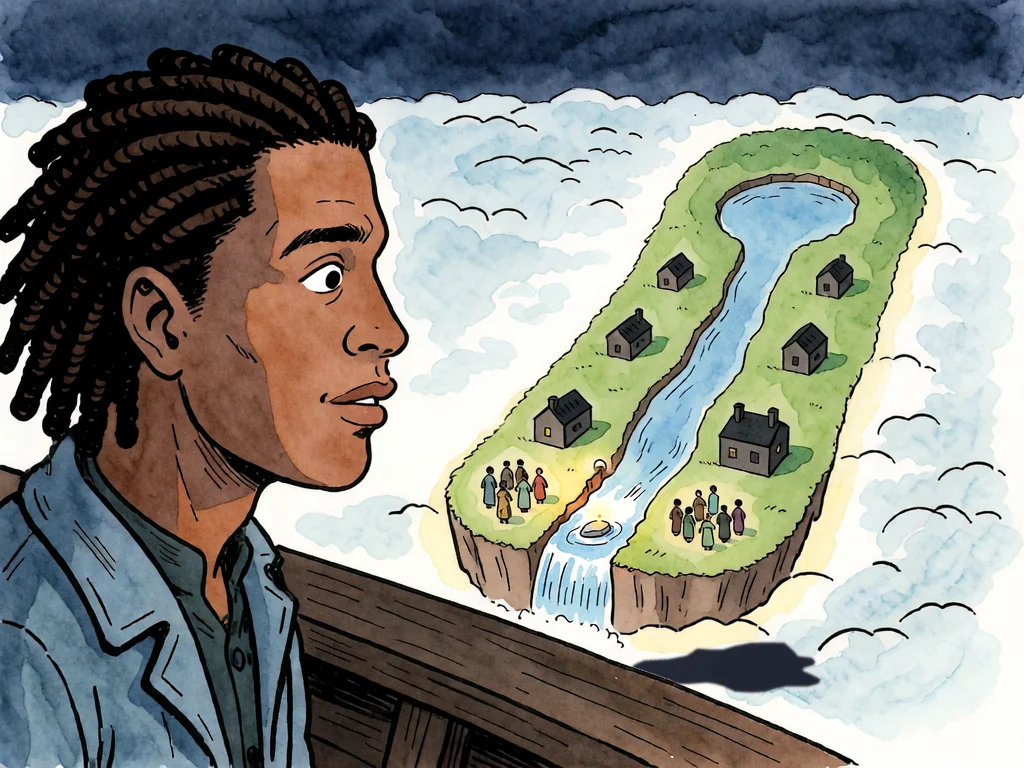
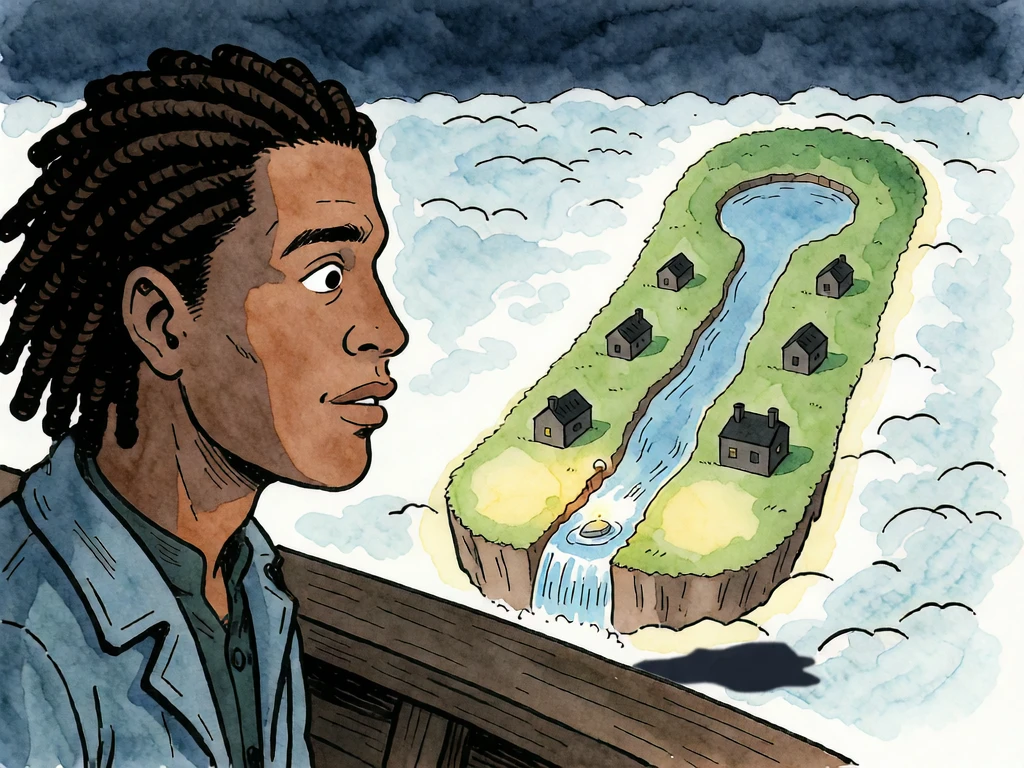
Run 10 picture 1 redraw (locked); dream 4 and 5 reopened in credits; credits row for the run 9 and 10 stills
Claude-Session: https://claude.ai/code/session_01JTmPYBGE5RJi7qTbK5Qior

diff --git a/CREDITS.md b/CREDITS.md
@@ -15,6 +15,7 @@ subscription-only billing so no Spark was spent. Sources are in the project file
 | faces/&lt;who&gt;-&lt;mood&gt;.webp (story portraits: Hesta 3 moods, Lumi 6, Rook 4, Nell 6, Sefa 7, Kes 5; Kes's are drafts from the cast art thread, `sogni/lanternfall/production/kes/game/`, 2026-11-24) | Mood faces (Lumi's calling, grudging and delighted redrawn closed-mouth on 2026-11-23) from the cast art thread (project files `sogni/lanternfall/production/<who>/face-*.png`, 2026-11-23), resized to 160 px WebP |
 | stills/r8-{1,2,7,10,11a,11b}.webp (run 8's reaction stills: Tilda steady, Tilda and Rook at the far well, Rook asking for Granny (redrawn the same day, more concerned, at Ladi's word), the count book, Tilda asking, Rook with no answer) | Drafts drawn by the gameplay thread with krea2_identity_edit_v1_2 on Sogni, 2026-11-24, on Ladi's plan, 0 Spark (project files `gameplay/stills/run8/`), 1024 by 768 as delivered. | The stills panel over the Sieve (`src/engine/stills.ts`) |
 | stills/r8-5.webp, stills/r8-6.webp (run 8's reaction stills at the tug: Tilda lost with Rook uneasy behind her; Tilda watching, Rook looking down) | Drawn by the cutscene thread on Sogni, 2026-11-24, on Ladi's plan; Ladi approved them at 10:44 AM ("Faces look good"). Every step with krea2_identity_edit_v1_2 on the subscription, 0 Spark, as that thread confirmed from its render logs (Tilda alone, Rook added behind her, the face changes on head crops), from the project's own persona sheets lf-tilda and lf-rook-high-grounds; the face transplants, Tilda's chalk smudge and Rook's enlarging are its own script and hand work, no model (sources `sogni/lanternfall/production/story/run8-stills/s5-closer.png` and `s6-closer.png`; delivered in project files `gameplay/stills/run8/`), 1024 by 768 as delivered | The stills panel over the Sieve: 5 as the tug takes hold, 6 cross-fading over it when the tug ends |
+| stills/r9-{0,1,2,3}.webp, stills/r10-{0,1,2}.webp (run 9's four stills; run 10's two panels and its last picture, Lumi's lantern on the stone) | The cutscene and gameplay threads' stills on Sogni, 2026-11-25, on Ladi's plan: run 9's four are that thread's drafts; run 10's panels and last picture were approved by Ladi. Picture r10-1 replaced on 2026-11-26 by `gameplay/stills/run10/r10-1-v2.webp` (from `run10/r10-1-v2-a.png`, krea2_identity_edit_v1_2, 0 Spark), locked by Ladi. ❓ The model's licence terms not read, the same caveat as the other Sogni stills. 1024x768 WebP | Runs 9 and 10 (`src/engine/stills.ts`) |
 | stills/r6-land-{1,2,3}.webp (run 6's landing pictures: the crowd looking up with Lumi in front, the comet over the island, Hesta landing in the glass) | Drafts drawn by the gameplay thread on Sogni, 2026-11-24, on Ladi's plan, 0 Spark, all with krea2_identity_edit_v1_2; picture 2 redrawn the same day from the game's own island; picture 1 redrawn on 2026-11-25 by the cutscene thread with the cast from their personas (`r6-land-1-cast`, not seen by Ladi yet); picture 3 redrawn on 2026-11-25 by the cutscene thread on Ladi's notes, Hesta alone on the Kindling ground drawn from the game's own map, close, with a wide crater, in her Hesta Gear look (`r6-land-3-gear`, 0 Spark, not seen by Ladi yet) (project files `gameplay/stills/run6/`), 1024 by 768 as delivered | The held pictures of the landing between runs 6 and 7; picture 2 shows only with `?stillsonly`, since the comet now falls on the map |
 | stills/alarm/**/*.webp (the alarm before run 6 as moving layers: the kitchen with its lamp and three cups apart; the falls (redrawn 2026-11-25 by the cutscene thread from the game's own map with Maudie, Orrin and Moth from their personas, `alarm2-falls-map`, on Ladi's note; replaced on 2026-11-26 by `gameplay/stills/run6/r6-alarm-2-v2.webp`, from `alarm2-falls-nolamp-c.png` (krea2_identity_edit_v1_2, 0 Spark, with a hand clean-up of the sand), nobody and no lamp on the sand, locked by Ladi); the Kindling ground close with its fire strong, low, in embers and out, drawn from the game's own story/kindling-ring.webp (replaced on 2026-11-26 by the cutscene thread's `gameplay/stills/run6/alarm3-v2/` frames, both archways gone and the fire visibly dying, locked by Ladi); and in shot4/ the island going down: sky, five layers of cloud, the island cut out with its heart bright and dim, a strip of waterfall, four rocks), stills/r6-alarm-5.webp (Lumi at the door, worried; replaced on 2026-11-26 by the cutscene thread's `gameplay/stills/run6/r6-alarm-5-v2.webp`, her staff longer, locked by Ladi) and stills/r7-end-1.webp (the island clear of the cloud; redrawn 2026-11-25 by the cutscene thread over a capture of the game's own island, `r7-end-1-map`, on Ladi's note, 0 Spark as that thread reports; no longer shown: on 2026-11-26 Ladi asked for the alarm's island shot the other way instead, so the end of run 7 is now shot4's layers played rising out of the cloud, with a small fire drawn in the page in the Kindling brazier) | Drafts drawn by the gameplay thread on Sogni, 2026-11-24, on Ladi's plan, 0 Spark, with krea2_identity_edit_v1_2, the island drawn from the game's own (project files `gameplay/stills/run6/` and `gameplay/stills/run6/alarm-layers/`); the layers turned from PNG to WebP here, same sizes | The alarm's five shots before run 6 (`?noalarm` leaves them out) and the picture at the end of run 7. The alarm's sparks are drawn in the page, and its sounds (bell, timbers, falls, far-off voices, the low roll, rock breaking) are made in the page, no files |
 | stills/alarm/shot4/{island-dim,island-bright,waterfall-strip,debris-1..4}.webp (the alarm's last shot, redrawn so the houses, the landing with its skiff and the lake sit where they are on the map, with the falls down the near face) | Redrawn by the gameplay thread on Sogni, 2026-11-24, straight over a capture of the game's own home island made here (project files `build/home-island-horseshoe/whole/2-day-side.png`); Ladi approved the shot at 11:30 AM ("Shot 4 Descent looks good", draft 5). Model and cost as that thread's other alarm layers (the row above); turned from PNG to WebP here, same sizes; on 2026-11-25 the cutscene thread painted the five small figures out of island-dim and island-bright at Ladi's request (the shot is too wide for people), same size and alpha (`production/story/run6-stills/layers4/nopeople/`) | The island going down, the last shot of the alarm before run 6 |
@@ -32,7 +33,7 @@ subscription-only billing so no Spark was spent. Sources are in the project file
 | story/kindling-underside.webp, story/kindling-heart-small.webp, story/kindling-heart-big.webp, story/kindling-hearts.webp, story/kindling-eye-glint.webp (run 1's ending: the home island from below in its horseshoe shape, both hearts down to embers; the two hearts lit as separate layers; the sky from below with home in its new shape, approved by Ladi at 11:46 AM, "Islands from below lgtm"; and home's one light among them, the 2026-11-23 glint trimmed tighter) | Painted by the cutscene thread on Sogni, 2026-11-24 (`sogni/lanternfall/production/story/v4/`), with krea2_identity_edit_v1_2 on the subscription, 0 Spark, plus its own code, as that thread reports; it says Ladi approved the underside that day and chose two hearts. ❓ That thread has not read the model's licence terms, the same caveat as the run 8 stills. Converted to WebP, same size (1536 square) | Run 1's ending, over the rim and down the underside: the small heart under the Kindling ground lights first, then the big one at the tip; then the islands from below, home's light as bright as the score |
 | story/walk-kitchen.webp (Rook's kitchen, walk 2) | The cutscene art thread's picture (`production/story/part1/kitchen/kitchen-tappable-walk2-draft-3.png`, 2026-11-24), the lantern with its approved hook handle; that thread reports Ladi's "Yes" at 11:47 AM on 2026-11-24 as covering it. ❓ It has not read the model's licence terms, the same caveat as its other pictures. Converted to WebP at 1280 px |
 | story/evening-1.webp and story/evening-2.webp (the evening after Granny's game, 3-4a) | The cutscene art thread's pictures (`production/story/part1/evening/`, drawn on Sogni on the subscription as that thread reports). Picture 1, the pond at sunset, replaced on 2026-11-26 by `evening-pond-final-3.png` (Lumi's right hand back, a younger face, Sefa looking up at Rook), locked by Ladi; picture 2 from `evening-kitchen-night-final-1.png`. ❓ That thread has not read the model's licence terms, the same caveat as its other pictures. Converted to WebP at 1280 px | Part 1's evening scene, 3-4a (`src/client/part1.ts` EVENING) |
-| story/gt-*.webp (the glow test before run 6, seven wide pictures with two light layers), story/dream-*.webp (the dream before run 1, eight pictures), story/skiff-*.webp (the skiff coming in at sunset and leaving the next morning, 4-5, redrawn from the personas on Ladi's notes in `production/story/part1/skiff-home/final-3/` (the arrival; replaced on 2026-11-26 by that folder's later save of `skiff-1-arrives-sunset.png`, which fixes Kes's extra hand, approved by Ladi) and `final-2/` (leaving); the first set's three are no longer used), story/sendoff-*.webp (the beacon and the send-off, 8-9b, thirteen pictures), story/handoff-*.webp (before the stranger's ship, 9-10, eight pictures; picture 4, the ferryman calling, replaced on 2026-11-26 by story row S4, `production/story/runs9-10/s4-over-here-l.png`, approved by Ladi, cropped to 4:3 by the cutscene thread, the crop not seen by Ladi), story/offering-*.webp (the Offering, 11, 25 pictures, rebuilt from the game's own island in `production/story/offering/final-2/`; the first draft is no longer used; pictures 4 and 7 replaced on 2026-11-25 by the third set, `stills-v3/04-falls-wide-a` and `07-lumi-turns-f`, cropped to 4:3 and approved by Ladi; picture 4 replaced again on 2026-11-26 by the ink redraw `stills-v3/04-falls-final` and picture 7 by `stills-v3/07-lumi-final`, both approved by Ladi, the crops the cutscene thread's; picture 1 replaced on 2026-11-26 by `stills-v3/01-landing-final`, picture 5 by `stills-v3/05-lumi-final` and picture 3 by `stills-v3/03-tip-final-3` (Lumi at true scale on the stone and the boat, locked by Ladi), all approved by Ladi, cropped to 4:3 by the cutscene thread, the crops not seen by Ladi; picture 8 replaced on 2026-11-26 by `stills-v3/08-rim-final` (Rook on the bank, Lumi on the stone turned to him), locked by Ladi, the 1024x768 crop the cutscene thread's; picture 9 replaced on 2026-11-26 by `stills-v3/09-door-final` (Hesta by Rook's door, facing him), locked by Ladi, the 1024x768 crop the cutscene thread's; picture 11 replaced on 2026-11-26 by `stills-v3/11-side-final` (Hesta leads Rook round behind his house), locked by Ladi, the 1024x768 crop the cutscene thread's; pictures 12 to 15 replaced on 2026-11-26 by `stills-v3/12-rook-final`, `13-hesta-final`, `14-kneel-final` and `15-hesta-final`, picture 16 by `16-rook-final` and picture 17 by `17-hesta-final`, pictures 6 and 10 by the cutscene thread's `offering-06-mooring` and `offering-10-rook` stills, and pictures 18, 19, 20, 22, 23, 24 and 25 by its `offering-18-line`, `19-rim`, `20-tip`, `22-under`, `23-fall`, `24-fall` and `25-out` stills (23 and 24 relocked on 2026-11-26 from `stills-v3/23-fall-final-2` and `24-fall-final-2`, the lantern smaller and to one side, a hand composite, 0 Spark; 22 relocked the same day from `stills-v3/22-under-final-2`, a hand composite on a krea2_identity_edit_v1_2 plate, 0 Spark), and pictures 2 and 21 by `stills-v3/02-path-final` (a krea2_identity_edit_v1_2 repaint of the map view, 0 Spark, with Rook composited by hand) and `stills-v3/21-lumi-final` (Lumi on the picture-21 plate, krea2_identity_edit_v1_2, the lantern from `lant2/lit.png`, cleaned up by hand), locked by Ladi; every Offering picture is now locked, the 1024x768 crops the cutscene thread's) and story/hands-*.webp (Hesta's hands at night and the morning after, 7-8b, four pictures and a shake layer) | The cutscene art thread's final sets (`production/story/part1/glowtest/final/`, `production/story/dream/final/`, `production/story/part1/skiff-home/final/`, `production/story/part1/send-off/final/`, `production/story/handoff-9-10/final/`, `production/story/offering/final/` and `production/story/part1/hands/final/`, 2026-11-25), drawn on Sogni on the subscription as that thread reports, 0 Spark. Glow test: six pictures approved by Ladi on 23 and 24 Nov; gt-5-rook-proud is that thread's pick, not seen by Ladi. Dream: pictures 1 to 5 replaced on 2026-11-26 by `production/story/dream/final-2/` (krea2_identity_edit_v1_2 renders, 0 Spark, a hand-composited lantern in 3), locked by Ladi; 6 to 8 are that thread's picks, Ladi saw the rough storyboard only, and are being redrawn. Skiff home, send-off, hands, the pictures before the ship and the Offering: that thread's picks, not seen by Ladi. ❓ That thread has not read the model's licence terms, the same caveat as its other pictures. Converted to WebP (glow test 1920x1080, dream 1024x768) | Part 1's held-picture scenes 0, 4-5, 5-6b, 7-8b, 8-9b, 9-10 and 11 (`src/client/part1.ts` DREAM, HELD and GLOW) |
+| story/gt-*.webp (the glow test before run 6, seven wide pictures with two light layers), story/dream-*.webp (the dream before run 1, eight pictures), story/skiff-*.webp (the skiff coming in at sunset and leaving the next morning, 4-5, redrawn from the personas on Ladi's notes in `production/story/part1/skiff-home/final-3/` (the arrival; replaced on 2026-11-26 by that folder's later save of `skiff-1-arrives-sunset.png`, which fixes Kes's extra hand, approved by Ladi) and `final-2/` (leaving); the first set's three are no longer used), story/sendoff-*.webp (the beacon and the send-off, 8-9b, thirteen pictures), story/handoff-*.webp (before the stranger's ship, 9-10, eight pictures; picture 4, the ferryman calling, replaced on 2026-11-26 by story row S4, `production/story/runs9-10/s4-over-here-l.png`, approved by Ladi, cropped to 4:3 by the cutscene thread, the crop not seen by Ladi), story/offering-*.webp (the Offering, 11, 25 pictures, rebuilt from the game's own island in `production/story/offering/final-2/`; the first draft is no longer used; pictures 4 and 7 replaced on 2026-11-25 by the third set, `stills-v3/04-falls-wide-a` and `07-lumi-turns-f`, cropped to 4:3 and approved by Ladi; picture 4 replaced again on 2026-11-26 by the ink redraw `stills-v3/04-falls-final` and picture 7 by `stills-v3/07-lumi-final`, both approved by Ladi, the crops the cutscene thread's; picture 1 replaced on 2026-11-26 by `stills-v3/01-landing-final`, picture 5 by `stills-v3/05-lumi-final` and picture 3 by `stills-v3/03-tip-final-3` (Lumi at true scale on the stone and the boat, locked by Ladi), all approved by Ladi, cropped to 4:3 by the cutscene thread, the crops not seen by Ladi; picture 8 replaced on 2026-11-26 by `stills-v3/08-rim-final` (Rook on the bank, Lumi on the stone turned to him), locked by Ladi, the 1024x768 crop the cutscene thread's; picture 9 replaced on 2026-11-26 by `stills-v3/09-door-final` (Hesta by Rook's door, facing him), locked by Ladi, the 1024x768 crop the cutscene thread's; picture 11 replaced on 2026-11-26 by `stills-v3/11-side-final` (Hesta leads Rook round behind his house), locked by Ladi, the 1024x768 crop the cutscene thread's; pictures 12 to 15 replaced on 2026-11-26 by `stills-v3/12-rook-final`, `13-hesta-final`, `14-kneel-final` and `15-hesta-final`, picture 16 by `16-rook-final` and picture 17 by `17-hesta-final`, pictures 6 and 10 by the cutscene thread's `offering-06-mooring` and `offering-10-rook` stills, and pictures 18, 19, 20, 22, 23, 24 and 25 by its `offering-18-line`, `19-rim`, `20-tip`, `22-under`, `23-fall`, `24-fall` and `25-out` stills (23 and 24 relocked on 2026-11-26 from `stills-v3/23-fall-final-2` and `24-fall-final-2`, the lantern smaller and to one side, a hand composite, 0 Spark; 22 relocked the same day from `stills-v3/22-under-final-2`, a hand composite on a krea2_identity_edit_v1_2 plate, 0 Spark), and pictures 2 and 21 by `stills-v3/02-path-final` (a krea2_identity_edit_v1_2 repaint of the map view, 0 Spark, with Rook composited by hand) and `stills-v3/21-lumi-final` (Lumi on the picture-21 plate, krea2_identity_edit_v1_2, the lantern from `lant2/lit.png`, cleaned up by hand), locked by Ladi; every Offering picture is now locked, the 1024x768 crops the cutscene thread's) and story/hands-*.webp (Hesta's hands at night and the morning after, 7-8b, four pictures and a shake layer) | The cutscene art thread's final sets (`production/story/part1/glowtest/final/`, `production/story/dream/final/`, `production/story/part1/skiff-home/final/`, `production/story/part1/send-off/final/`, `production/story/handoff-9-10/final/`, `production/story/offering/final/` and `production/story/part1/hands/final/`, 2026-11-25), drawn on Sogni on the subscription as that thread reports, 0 Spark. Glow test: six pictures approved by Ladi on 23 and 24 Nov; gt-5-rook-proud is that thread's pick, not seen by Ladi. Dream: pictures 1 to 5 replaced on 2026-11-26 by `production/story/dream/final-2/` (krea2_identity_edit_v1_2 renders, 0 Spark, a hand-composited lantern in 3); 1 to 3 locked by Ladi, while 4 and 5 were reopened by Ladi the same day and are being redrawn (the final-2 files stay in until then); 6 to 8 are that thread's picks, Ladi saw the rough storyboard only, and are being redrawn. Skiff home, send-off, hands, the pictures before the ship and the Offering: that thread's picks, not seen by Ladi. ❓ That thread has not read the model's licence terms, the same caveat as its other pictures. Converted to WebP (glow test 1920x1080, dream 1024x768) | Part 1's held-picture scenes 0, 4-5, 5-6b, 7-8b, 8-9b, 9-10 and 11 (`src/client/part1.ts` DREAM, HELD and GLOW) |
 | stills/w9-lumi-door.webp (Lumi at the door with the staff and no bag, with her first line in the morning walk before run 8) | A 4:3 crop of story/hands-4-morning-door.webp (the hands set's fourth picture, row above), made here on 2026-11-26 when the picture moved out of the hands scene into the walk on the story thread's advice. Same terms as that row | Walk 9, Lumi's "You packed one bag." |
 | faces/kes-{alarmed,bereft}.webp, faces/grandmother-{steady,soft,talking}.webp, faces/grandfather-neutral.webp (run 9) | Bubble faces from the cast art thread (project files `sogni/lanternfall/production/bubble-faces/`, 2026-11-24), 160 px WebP as delivered. Placeholders: the grandparents' look is a first draft Ladi has not approved, and Kes's two are being re-framed | Bark bubbles and the talk box in run 9; which face goes with which line is in `src/engine/moods.ts` |
 | models/low-house-{a,b,c}.glb, models/rescue-boat.glb, models/kes-drop.glb, models/cold-brazier.glb (run 9) | Draft 1 from the maps thread (project files `sogni/lanternfall/production/places/low-one/`, 2026-11-25): concepts by Sogni AI z_image_turbo_bf16, 3D by Sogni AI pixal3d_int8_i23d, slimmed and re-baked there; the boat's lamp post is procedural | The low one in run 9, in place of the block-outs (`src/client/rescue-dress.ts`) |
